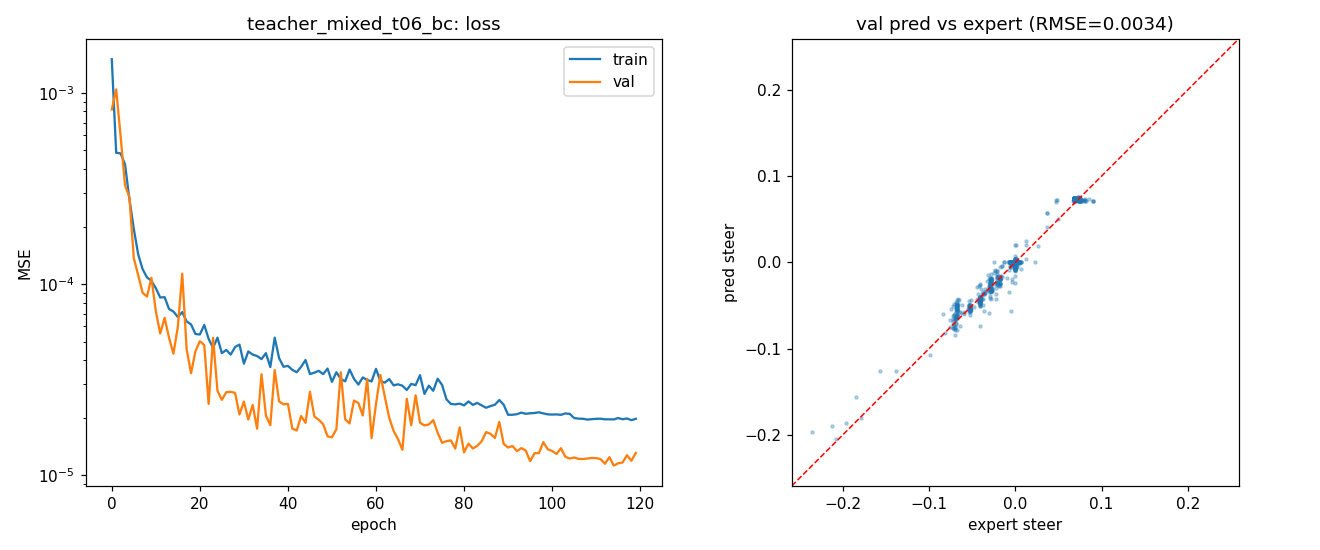
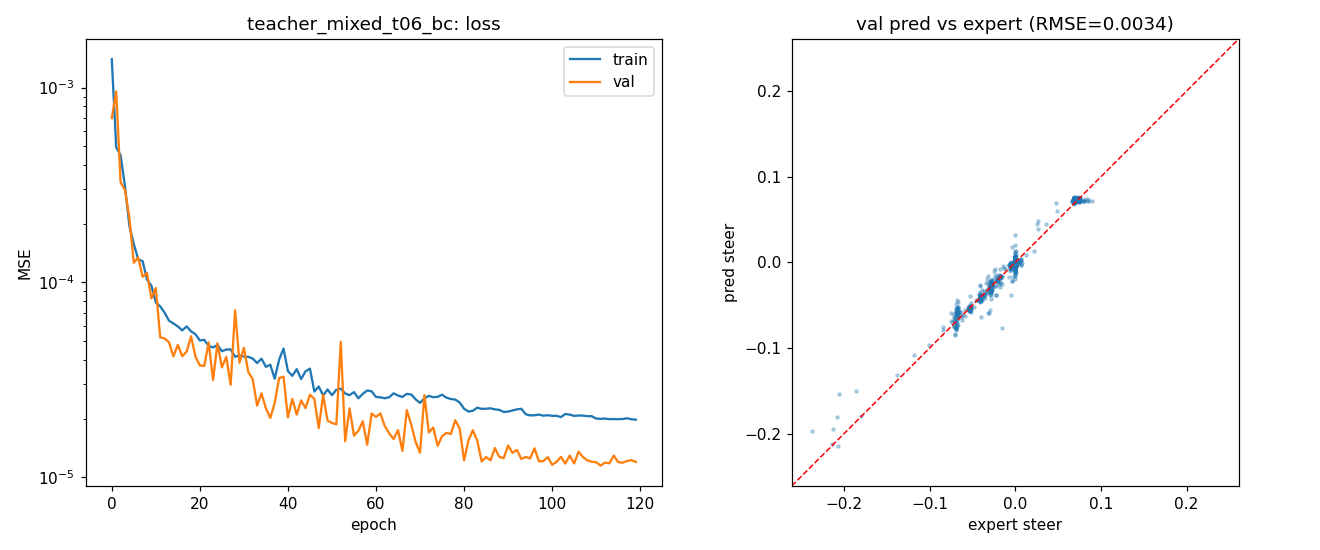
build_town06_sections: require BOTH lane markings and pin the ego to the second lane from the left
Two design violations, both found by auditing what the first selection actually produced
rather than what it was meant to produce.

1. MARKINGS. clean_mask rejected a waypoint only when BOTH markings were absent, so road
   that kept one line and lost the other passed as clean. The docstring even said
   'lane-marked on at least one side'. Measured on the scored sections: s02 ran 385 m of
   its 628 m -- 61% -- with only one line, and s04 lost one for 33 m at its spawn. The
   policy steers off TWO lines, so it now requires both.

2. LANE. The study places the ego in the second lane from the left precisely so both
   references are dashed lane lines and ramps, which join and leave on the right, never
   touch them. Measured: only s03 of six sections was there. FOUR were RIGHTMOST, where
   the right-hand reference is a road edge rather than a dashed line and on-ramps merge
   into exactly the marking the policy depends on; s01 was a SINGLE-LANE road with no
   dashed context at all. Now enforced on seeds and along the whole run.

Junctions are deliberately NOT excluded as such. Zach's point: CARLA's is_junction covers
on-ramps, off-ramps and merges as well as crossroads, and ramps are legitimate highway.
Measured: 505 m of the first selection was is_junction while only 73 m was true
crossing-traffic intersection, nearly all of it in s04. The marking test decides the
question directly, without classifying junction geometry -- three different geometric
[…]

diff --git a/scripts/audit_section_intersections.py b/scripts/audit_section_intersections.py
@@ -1,0 +1,135 @@
+#!/usr/bin/env python3
+"""Which junctions in each section are INTERSECTIONS, and which are just ramps/merges?
+
+CARLA's wp.is_junction is true for any connecting road: on-ramps, off-ramps and merges
+as well as crossroads. Ramps are FINE for this study -- the ego sits in the second lane
+from the left and keys off its left and right dashed markings, which a ramp entering or
+leaving on the far right does not disturb. INTERSECTIONS are not fine: they introduce
+crossing traffic geometry the lane-keeping policies were never trained for.
+
+So a raw is_junction count over-states the problem. This classifies each junction by the
+geometry of the paths THROUGH it:
+
+    for every (entry, exit) pair the junction offers, the heading change
+    max |heading change| <= RAMP_MAX_TURN_DEG  ->  ramp / merge   (all paths ~parallel)
+    otherwise                                  ->  INTERSECTION   (paths cross or turn)
+
+A merge or diverge keeps every path within a few degrees of the through direction. A
+crossroads offers paths turning 90 degrees or more.
+
+    STUDY_MAP=Town06 CARLA_PORT=3000 python3 scripts/audit_section_intersections.py
+"""
+import sys
+from pathlib import Path
+
+import numpy as np
+
+REPO = Path(__file__).resolve().parent.parent
+sys.path.insert(0, str(REPO / "pipeline"))
+import config as C  # noqa: E402
+
+RAMP_MAX_TURN_DEG = 35.0
+# Approaches differing by more than this are crossing traffic, not a merge.
+CROSSING_SPREAD_DEG = 60.0
+
+
+def ang_diff(a, b):
+    d = (a - b + 180.0) % 360.0 - 180.0
+    return abs(d)
+
+
+def classify_junction(j):
+    """(kind, max_entry_spread_deg, max_turn_deg, n_paths) for a carla.Junction.
+
+    Turn angle alone is a weak discriminator: a sharp slip road can turn 45 degrees while
+    a crossroads approached straight-on offers a through path that turns 0. The signature
+    of an INTERSECTION is CROSSING APPROACHES -- traffic entering from directions that are
+    not parallel. A merge or diverge has every approach within a few degrees of the
+    through direction, however sharply an individual path bends.
+
+    So the primary test is the maximum pairwise spread of ENTRY headings; the turn angle
+    is kept alongside it for comparison.
+    """
+    import carla
+    try:
+        pairs = j.get_waypoints(carla.LaneType.Driving)
+    except Exception:
+        return "unknown", float("nan"), float("nan"), 0
+    if not pairs:
+        return "unknown", float("nan"), float("nan"), 0
+    entries = [e.transform.rotation.yaw for e, _ in pairs]
+    spread = max((ang_diff(a, b) for a in entries for b in entries), default=0.0)
+    turns = [ang_diff(x.transform.rotation.yaw, e.transform.rotation.yaw) for e, x in pairs]
+    kind = "INTERSECTION" if spread > CROSSING_SPREAD_DEG else "ramp/merge"
+    return kind, spread, max(turns), len(pairs)
+
+
+def main():
+    import carla
+    import carla_env as env
+    from route import load_route
+
+    client = env.connect()
+    world = env.load_town04(client, fresh=False)
+    wmap = world.get_map()
+
+    print(f"classifying junctions: max path turn <= {RAMP_MAX_TURN_DEG:.0f} deg is a "
+          f"ramp/merge, more is an INTERSECTION\n")
+    grand_isect = 0.0
+    for sec in C.SECTIONS:
+        rt = np.asarray(load_route(sec), dtype=float)
+        seg = np.linalg.norm(np.diff(rt, axis=0), axis=1)
+        arc = np.concatenate([[0.0], np.cumsum(seg)])
+        scored = C.SECTION_LEN_M[sec]
+        idx = np.where(arc <= scored)[0]
+
+        cur, spans = None, []          # (junction_id, start_arc, end_arc)
+        for i in idx:
+            wp = wmap.get_waypoint(carla.Location(x=float(rt[i, 0]), y=float(rt[i, 1]), z=0.5),
+                                   project_to_road=True, lane_type=carla.LaneType.Driving)
+            jid = wp.get_junction().id if wp.is_junction and wp.get_junction() else None
+            if jid is not None and cur is not None and cur[0] == jid:
+                cur[2] = arc[i]
+            elif jid is not None:
+                if cur:
+                    spans.append(cur)
+                cur = [jid, arc[i], arc[i]]
+            else:
+                if cur:
+                    spans.append(cur)
+                cur = None
+        if cur:
+            spans.append(cur)
+
+        isect_m = ramp_m = 0.0
+        detail = []
+        seen = {}
+        for jid, a, b in spans:
+            if jid not in seen:
+                jw = None
+                for i in idx:
+                    wp = wmap.get_waypoint(carla.Location(x=float(rt[i, 0]), y=float(rt[i, 1]), z=0.5),
+                                           project_to_road=True, lane_type=carla.LaneType.Driving)
+                    if wp.is_junction and wp.get_junction() and wp.get_junction().id == jid:
+                        jw = wp.get_junction()
+                        break
+                seen[jid] = (classify_junction(jw) if jw
+                             else ("unknown", float("nan"), float("nan"), 0))
+            kind, spread, mx, n = seen[jid]
+            ln = b - a
+            if kind == "INTERSECTION":
+                isect_m += ln
+            else:
+                ramp_m += ln
+            detail.append(f"{a:4.0f}-{b:<4.0f} {kind:12s} "
+                          f"entry spread {spread:3.0f} deg, max turn {mx:3.0f} deg")
+        grand_isect += isect_m
+        print(f"{sec}  scored {scored:.0f} m | INTERSECTION {isect_m:5.1f} m "
+              f"({100*isect_m/scored:4.1f}%) | ramp/merge {ramp_m:5.1f} m")
+        for d in detail:
+            print(f"      {d}")
+    print(f"\nTOTAL true-intersection content across the scored route: {grand_isect:.0f} m")
+
+
+if __name__ == "__main__":
+    sys.exit(main())

diff --git a/scripts/build_town06_sections.py b/scripts/build_town06_sections.py
@@ -12,12 +12,29 @@ clean road. Direction pairing is not a requirement, so this builds a SET of disj
 clean sections totalling the target distance instead.
 
 A section is contiguous road that is:
-  - lane-marked on at least one side      (what a lane keeper follows; the first Town06
-                                           route failed here, 7.55 % unmarked, and its
-                                           teacher failed all six DAgger rounds while the
-                                           oracle drove the same route at 0.43 ft)
+  - lane-marked on BOTH sides             (the policy steers off its two lane lines. The
+                                           original test rejected a waypoint only when
+                                           BOTH markings were absent, so road keeping one
+                                           line and losing the other passed as clean --
+                                           s02 ran 385 m of its 628 m, 61%, with only one
+                                           line, and s04 lost one for 33 m at its spawn)
+  - in the SECOND LANE FROM THE LEFT      (so both references are dashed lane lines and
+                                           on-ramps and off-ramps, which join and leave
+                                           on the right, never touch them. Measured on
+                                           the first selection: only s03 of six sections
+                                           was here. Four were RIGHTMOST, where the right
+                                           reference is a road edge and ramps merge into
+                                           exactly the marking the policy depends on, and
+                                           s01 was a single-lane road with no dashed
+                                           context at all)
   - not on a signal-controlled lane
   - lane width 3.500 m                    (the CTE budget is derived from it)
+
+Junctions are NOT excluded as such. CARLA's is_junction covers on-ramps, off-ramps and
+merges as well as crossroads, and ramps are legitimate highway road: 505 m of the first
+selection was flagged is_junction while only 73 m was true crossing-traffic intersection.
+What matters is whether the EGO LANE keeps its two markings, which the marking test above
+decides directly and without having to classify junction geometry.
 
 Sections are de-duplicated geometrically: adjacent lanes of the same carriageway trace
 almost the same line, and counting them separately would inflate the distance without
@@ -46,9 +63,24 @@ from build_study_route import controlled_waypoints, dstats, REF, LANE_W, LANE_W_
 MAP = "Town06"
 NONE_MARK = carla.LaneMarkingType.NONE
 MIN_SECTION_M = 350.0
+# Second lane from the left. Both references are then dashed lane lines, and
+# ramps joining or leaving on the right never disturb them.
+EGO_LANE_FROM_LEFT = 1
 TAIL_M = 300.0            # stored past the scored end so pure pursuit never wraps
 DEDUP_M = 25.0            # two sections closer than this along their length are the same road
 ROUTES_DIR = os.path.join(C.DATASET_DIR, f"routes_{MAP.lower()}")
+
+
+def lanes_from_left(wp):
+    """How many same-direction driving lanes lie to the left of this one. 0 = leftmost."""
+    n, w = 0, wp
+    while True:
+        nxt = w.get_left_lane()
+        if (nxt is None or nxt.lane_type != carla.LaneType.Driving
+                or (nxt.lane_id > 0) != (wp.lane_id > 0)):
+            return n
+        n += 1
+        w = nxt
 
 
 def clean_mask(wmap, r, CTL):
@@ -58,7 +90,13 @@ def clean_mask(wmap, r, CTL):
                                project_to_road=True, lane_type=carla.LaneType.Driving)
         lm = wp.left_lane_marking.type if wp.left_lane_marking else NONE_MARK
         rm = wp.right_lane_marking.type if wp.right_lane_marking else NONE_MARK
-        if (lm == NONE_MARK and rm == NONE_MARK) or abs(wp.lane_width - LANE_W) > LANE_W_TOL:
+        # BOTH markings, not either: the policy steers off two lines and losing one is
+        # exactly the case the previous test let through.
+        if lm == NONE_MARK or rm == NONE_MARK:
+            ok[i] = False
+        elif abs(wp.lane_width - LANE_W) > LANE_W_TOL:
+            ok[i] = False
+        elif lanes_from_left(wp) != EGO_LANE_FROM_LEFT:
             ok[i] = False
     if len(CTL):
         d = np.hypot(CTL[:, 0][None, :] - r[:, 0][:, None],
@@ -105,7 +143,8 @@ def main():
         sl = np.array([[l.location.x, l.location.y]
                        for l in world.get_lightmanager().get_all_lights(carla.LightGroup.Street)])
 
-        seeds = [w for w in wmap.generate_waypoints(40.0) if not w.is_junction]
+        seeds = [w for w in wmap.generate_waypoints(40.0)
+                 if not w.is_junction and lanes_from_left(w) == EGO_LANE_FROM_LEFT]
         seen, found = set(), []
         for sd in seeds:
             key = (sd.road_id, sd.lane_id)

diff --git a/scripts/audit_section_junctions.py b/scripts/audit_section_junctions.py
@@ -1,0 +1,76 @@
+#!/usr/bin/env python3
+"""How much JUNCTION is inside each scored section?
+
+build_town06_sections.clean_mask filters on lane markings, lane width and distance from
+traffic-control points. It never checks wp.is_junction. Only the SEEDS avoid junctions
+(`if not w.is_junction`); the run grown from a seed can cross one, provided the junction
+has painted markings and standard lane width.
+
+Zach, watching a run, saw the vehicle spawn on the far side of an intersection and drive
+straight through it. The policies are lane-keepers and were never trained for junctions,
+so a junction inside a scored window contributes frames the model cannot be expected to
+handle -- and max|CTE| is a MAXIMUM, so one such frame sets the section's score.
+
+Reports, per section: the fraction of the scored window that is junction, where those
+stretches begin and end, and what a scored-window trim would have to remove.
+
+    STUDY_MAP=Town06 CARLA_PORT=3000 python3 scripts/audit_section_junctions.py
+"""
+import os
+import sys
+from pathlib import Path
+
+import numpy as np
+
+REPO = Path(__file__).resolve().parent.parent
+sys.path.insert(0, str(REPO / "pipeline"))
+import config as C  # noqa: E402
+
+
+def main():
+    import carla
+    import carla_env as env
+    from route import load_route
+
+    client = env.connect()
+    world = env.load_town04(client, fresh=False)
+    wmap = world.get_map()
+
+    print(f"{'section':8s} {'scored_m':>9s} {'junction_m':>11s} {'%':>6s} "
+          f"{'stretches (m along scored window)'}")
+    worst_tail = 0.0
+    for sec in C.SECTIONS:
+        rt = np.asarray(load_route(sec), dtype=float)
+        seg = np.linalg.norm(np.diff(rt, axis=0), axis=1)
+        arc = np.concatenate([[0.0], np.cumsum(seg)])
+        scored = C.SECTION_LEN_M[sec]
+        idx = np.where(arc <= scored)[0]
+        isj = []
+        for i in idx:
+            wp = wmap.get_waypoint(carla.Location(x=float(rt[i, 0]), y=float(rt[i, 1]), z=0.5),
+                                   project_to_road=True, lane_type=carla.LaneType.Driving)
+            isj.append(bool(wp.is_junction))
+        isj = np.array(isj)
+        # contiguous junction stretches
+        spans, s0 = [], None
+        for i, v in enumerate(isj):
+            if v and s0 is None:
+                s0 = i
+            elif not v and s0 is not None:
+                spans.append((arc[idx[s0]], arc[idx[i - 1]]))
+                s0 = None
+        if s0 is not None:
+            spans.append((arc[idx[s0]], arc[idx[-1]]))
+        jm = float(sum(b - a for a, b in spans))
+        txt = ", ".join(f"{a:.0f}-{b:.0f}" for a, b in spans) if spans else "none"
+        print(f"{sec:8s} {scored:9.0f} {jm:11.1f} {100*jm/scored:5.1f}% {txt}")
+        if spans:
+            # how much would have to come off the END to clear the last junction
+            worst_tail = max(worst_tail, scored - spans[0][0] if spans else 0.0)
+
+    print(f"\nThe scored window is the CLEAN RUN as clean_mask defined it. Any junction "
+          f"listed above\nsits inside a window the study treats as clean lane-keeping road.")
+
+
+if __name__ == "__main__":
+    sys.exit(main())
